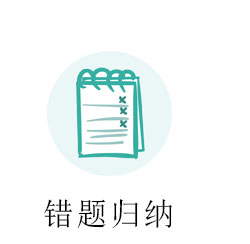
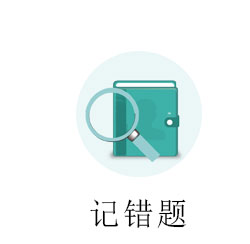
refactor: 首页修改

Changed region(s): [[0.28, 0.2582, 0.728, 0.6885], [0.308, 0.8033, 0.756, 0.9467], [0.168, 0.8033, 0.28, 0.9467]]

diff --git a/src/router/pages/index.vue b/src/router/pages/index.vue
@@ -10,9 +10,9 @@
     </swiper>
     <div style='padding-bottom:55px'>
       <flexbox style='height:6.3rem' :gutter='0'>
-        <flexbox-item :span="4" @click.native="$router.push({ name: 'workbook'})" class='workbook'></flexbox-item>
+        <flexbox-item :span="4" @click.native="$router.push({ name: 'workbook'})" :class="News.workbook ? 'workbookMsg' : 'workbook'"></flexbox-item>
         <flexbox-item :span="4" @click.native="$router.push({ name: 'camera'})" class='camera'></flexbox-item>
-        <flexbox-item :span="4" @click.native="$router.push({ name: 'statistics'})" class='statistics'></flexbox-item>
+        <flexbox-item :span="4" @click.native="$router.push({ name: 'homework'})" class='homework'></flexbox-item>
       </flexbox>
       <flexbox style='height:6.3rem' :gutter='0'>
         <flexbox-item :span="4" @click.native="$router.push({ name: 'induce'})" class='induce'></flexbox-item>
@@ -20,7 +20,7 @@
         <flexbox-item :span="4" @click.native="$router.push({ name: 'class'})" class='class'></flexbox-item>
       </flexbox>
       <flexbox style='height:6.3rem' :gutter='0'>
-        <flexbox-item :span="4" @click.native="$router.push({ name: 'homework'})" class='homework'></flexbox-item>
+        <flexbox-item :span="4" class='blank'></flexbox-item>
         <flexbox-item :span="4" class='blank'></flexbox-item>
         <flexbox-item :span="4" class='blank'></flexbox-item>
       </flexbox>
@@ -38,7 +38,7 @@ export default {
     XHeader, ViewBox, XButton, Swiper, SwiperItem, Flexbox, FlexboxItem
   },
   computed: {
-    ...mapGetters(['User']),
+    ...mapGetters(['User', 'News']),
     list () {
       return this.User.swiper.map((item, index) => ({
         url: `/article/${item.id}`,
@@ -51,11 +51,13 @@ export default {
   },
   beforeRouteEnter (to, from, next) {
     next(vm => {
-      vm.getUserNews()
+      return (async () => {
+        if (!vm.User.name) {
+          await vm.getUserInfo()
+        }
+        await vm.getUserNews()
+      })()
     })
-  },
-  created () {
-    this.getUserInfo()
   }
 }
 </script>

diff --git a/src/router/pages/user.vue b/src/router/pages/user.vue
@@ -28,7 +28,7 @@
         <i class="icon iconfont icon-gengxin" style="color:#4cc0be" slot="icon"></i>
         <badge></badge>
       </cell>
-      <cell title="我要分享" is-link @click.native="showAction = true">
+      <cell title="邀请好友" is-link @click.native="showAction = true">
         <i class="icon iconfont icon-share" style="color:#4cc0be" slot="icon"></i>
       </cell>
     </group>
@@ -38,7 +38,7 @@
 
 <script>
 import {XHeader, Cell, Group, ViewBox, Badge} from 'vux'
-import {mapActions, mapGetters} from 'vuex'
+import {mapGetters} from 'vuex'
 import Share from '@/components/share'
 
 export default {
@@ -60,15 +60,9 @@ export default {
     }
   },
   methods: {
-    ...mapActions(['getUserNews']),
     _openStore () {
       window.location.href = 'market://details?id=com.sanbao.guinaben.student'
     }
-  },
-  beforeRouteEnter (to, from, next) {
-    next(vm => {
-      vm.getUserNews()
-    })
   },
   beforeRouteLeave (to, from, next) {
     if (this.showAction) {

diff --git a/src/features/common/store.js b/src/features/common/store.js
@@ -10,7 +10,8 @@ const state = {
   news: {
     classes: false,
     correct: false,
-    system: false
+    system: false,
+    workbook: false
   },
   user: {
     headImg: '',
@@ -92,6 +93,7 @@ const mutations = {
     state.news.classes = data.classes
     state.news.correct = data.correct
     state.news.system = data.system
+    state.news.workbook = data.workbook
   },
   [types.SWIPER_INFO] (state, data) {
     state.article.title = data.title

diff --git a/src/router/pages/index.less b/src/router/pages/index.less
@@ -6,6 +6,11 @@
     background-size: 100% 100%;
     height:100%;
   }
+  .workbookMsg{
+    background: url("../assets/answerMsg.jpg")  no-repeat;
+    background-size: 100% 100%;
+    height:100%;
+  }
   .homework{
     background: url("../assets/homework.jpg")  no-repeat;
     background-size: 100% 100%;
